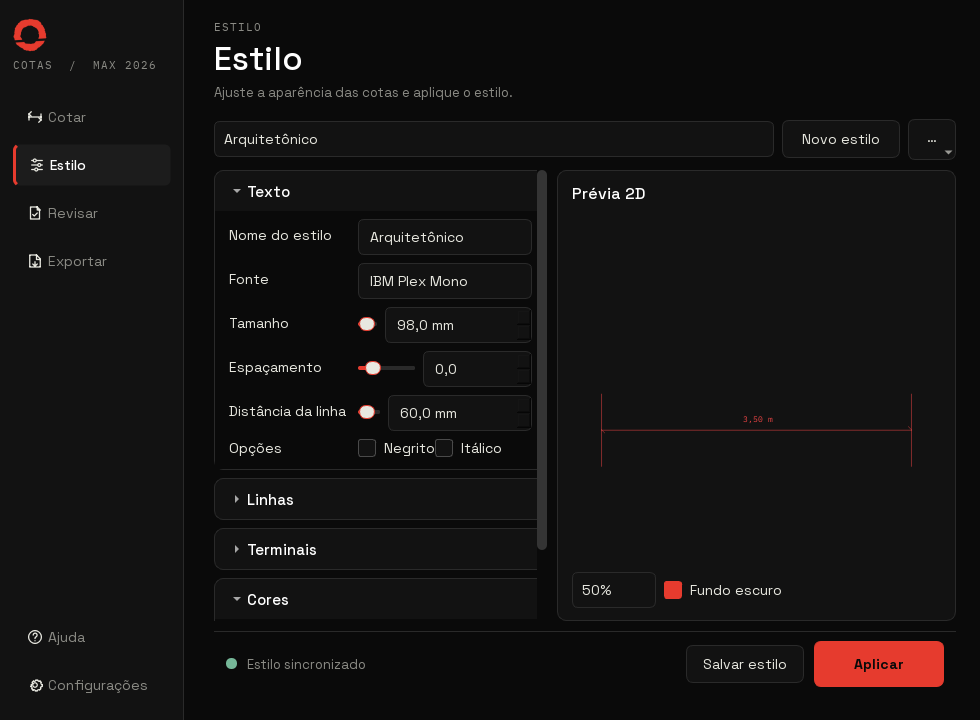
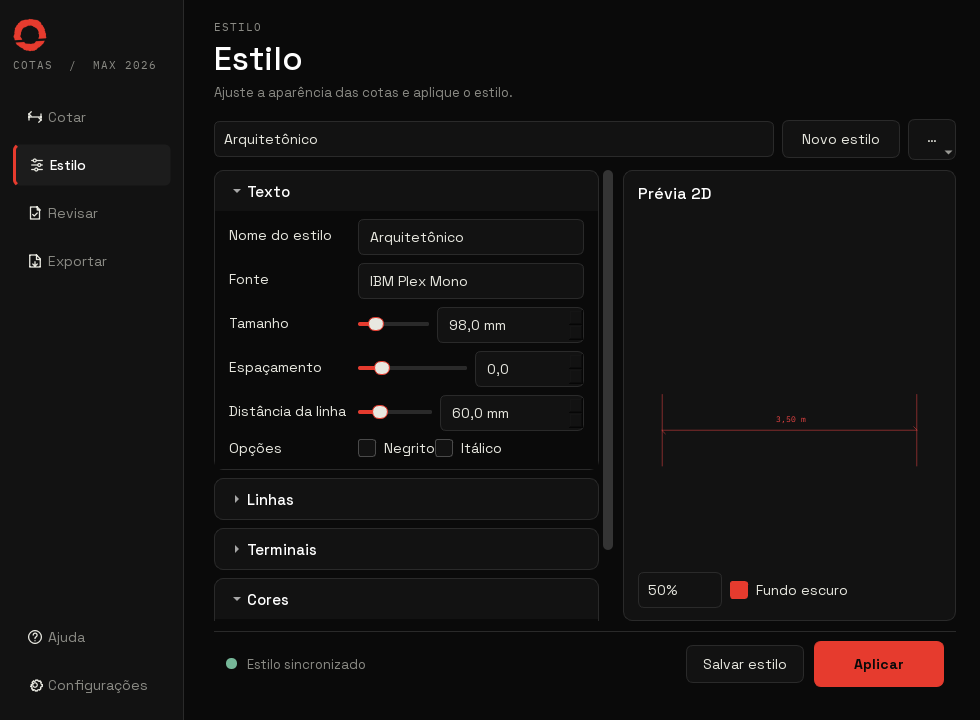
fix(e19): widen style controls at host width

diff --git a/Contents/python/ameno_ui/styles_page.py b/Contents/python/ameno_ui/styles_page.py
@@ -268,8 +268,11 @@ class StylesPage(QtWidgets.QWidget):
         self.workspace_layout = QtWidgets.QBoxLayout(QtWidgets.QBoxLayout.Direction.LeftToRight, self.editor)
         self.workspace_layout.setContentsMargins(0, 0, 0, 0)
         self.workspace_layout.setSpacing(10)
-        self.workspace_layout.addWidget(self.controls_scroll, 5)
-        self.workspace_layout.addWidget(self.preview_box, 6)
+        # The technical fields need slightly more room than the preview at the
+        # 980 px host width. A 6:5 split keeps full labels and numeric editors
+        # readable with the larger font metrics used inside 3ds Max.
+        self.workspace_layout.addWidget(self.controls_scroll, 6)
+        self.workspace_layout.addWidget(self.preview_box, 5)
         root.addWidget(self.editor, 1)
         self._workspace_mode = "wide"
         self.advanced = self.lines_section
@@ -342,10 +345,10 @@ class StylesPage(QtWidgets.QWidget):
             self.preview_box.setMinimumWidth(310)
             self.preview_box.setMinimumHeight(0)
             self.preview_box.setMaximumHeight(16777215)
-            self.workspace_layout.insertWidget(0, self.controls_scroll, 5)
-            self.workspace_layout.insertWidget(1, self.preview_box, 6)
-            self.workspace_layout.setStretch(0, 5)
-            self.workspace_layout.setStretch(1, 6)
+            self.workspace_layout.insertWidget(0, self.controls_scroll, 6)
+            self.workspace_layout.insertWidget(1, self.preview_box, 5)
+            self.workspace_layout.setStretch(0, 6)
+            self.workspace_layout.setStretch(1, 5)
 
     def _select_combo(self, row: int) -> None:
         if self._loading or row < 0:

diff --git a/tests/python/test_e19_style_workspace.py b/tests/python/test_e19_style_workspace.py
@@ -56,6 +56,10 @@ def test_style_workspace_keeps_preview_and_footer_fixed_at_980x720() -> None:
     assert page._workspace_mode == "wide"
     assert page.preview_box.parentWidget() is page.editor
     assert not page.controls_scroll.isAncestorOf(page.preview_box)
+    # Keep enough room for Max's real font metrics: the former 5:6 split left
+    # only 323 px and visibly truncated name, font and option controls.
+    assert page.controls_scroll.viewport().width() >= 375
+    assert page.name.width() >= 210
     assert view.verticalScrollBarPolicy() == QtCore.Qt.ScrollBarPolicy.ScrollBarAlwaysOff
     assert view.horizontalScrollBar().maximum() == 0
     footer_pos = page.footer.mapTo(view.viewport(), QtCore.QPoint(0, 0))

diff --git a/plans/2026-09-10-e19-correcao-visual-interface-qt.md b/plans/2026-09-10-e19-correcao-visual-interface-qt.md
@@ -305,7 +305,10 @@ comprovado antes de alterar as demais páginas.
 
 **Progresso E19.3:** itens 1 e 2 implementados; 66/66 testes Python passaram,
 incluindo layout 980x720/780x560, quatro escalas de DPI, prévia local sem bridge
-e rodapé fixo. Itens 3 a 6 e gate dentro do Max continuam pendentes.
+e rodapé fixo. Após o primeiro gate no Max, a coluna técnica passou de 5:6 para
+6:5 em relação à prévia; o gate agora exige ao menos 375 px úteis nos controles
+e 210 px nos campos principais em 980x720. Itens 3 a 6 e a repetição do gate
+dentro do Max continuam pendentes.
 
 **Gate E19.3:** todas as páginas passam os contratos de Cotar e todas as ações
 funcionais anteriores continuam alcançáveis.

diff --git a/work/e19-visual/README.md b/work/e19-visual/README.md
@@ -15,7 +15,7 @@ do host real.
 ## Página Estilo
 
 - `02-estilo-980x720.png`: duas colunas, preview e rodapé fixos.
[2 lines of base64/hex data omitted]
 - `03-estilo-780x560.png`: preview acima, controles em scroll próprio e rodapé
   fixo.
[1 lines of base64/hex data omitted]
